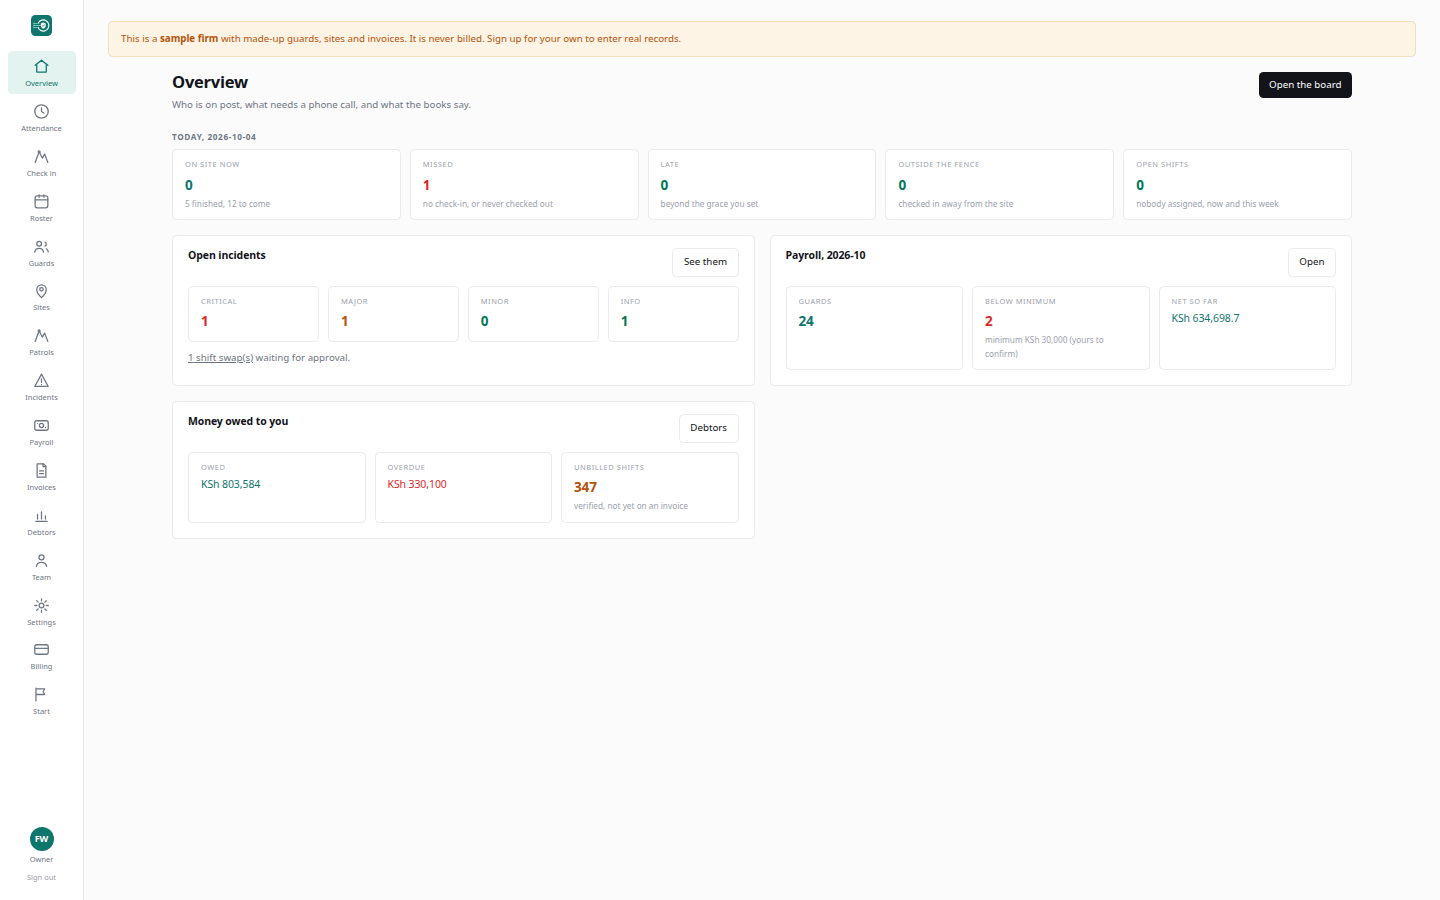
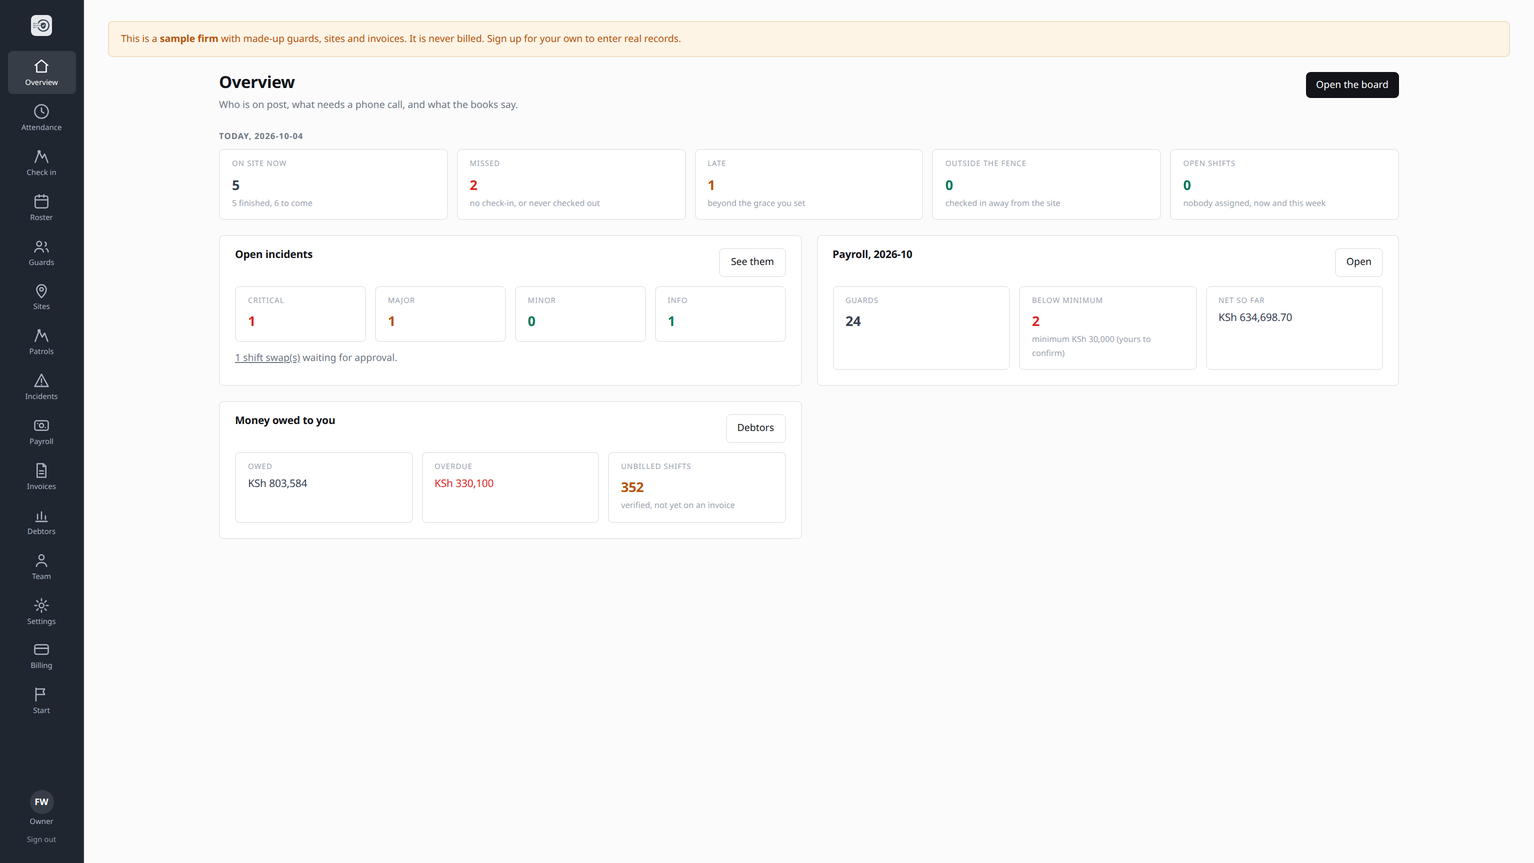
Distinct themes: Hazina bronze, Forecourt cobalt, Church CMS plum, Sojaa graphite with dark rail; brand marks follow accents; Sojaa screenshots refreshed

diff --git a/projects/sojaa/apps/console/src/components/rail.tsx b/projects/sojaa/apps/console/src/components/rail.tsx
@@ -28,9 +28,9 @@ export function Rail({ items, displayName, role }: RailProps) {
     .join("");
 
   return (
-    <aside className="sticky top-0 hidden h-screen w-[84px] shrink-0 flex-col border-r border-[var(--color-line)] bg-[var(--color-rail)] md:flex">
+    <aside className="sticky top-0 hidden h-screen w-[84px] shrink-0 flex-col border-r border-[var(--color-rail-line)] bg-[var(--color-rail)] md:flex">
       <div className="flex justify-center py-5">
-        <Image src="/mark.svg" alt="Sojaa" width={256} height={256} className="h-7 w-7" priority />
+        <Image src="/mark-rail.svg" alt="Sojaa" width={256} height={256} className="h-7 w-7" priority />
       </div>
 
       <nav className="flex flex-1 flex-col gap-0.5 overflow-y-auto px-2.5">
@@ -43,8 +43,8 @@ export function Rail({ items, displayName, role }: RailProps) {
               aria-current={active ? "page" : undefined}
               className={`flex flex-col items-center gap-1 rounded-lg px-1 py-2 text-[0.625rem] font-medium transition-colors ${
                 active
-                  ? "bg-[var(--color-accent-soft)] text-[var(--color-accent)]"
-                  : "text-[var(--color-muted)] hover:bg-[var(--color-raised)] hover:text-[var(--color-ink)]"
+                  ? "bg-[var(--color-rail-active)] text-white"
+                  : "text-[var(--color-rail-ink)] hover:bg-[var(--color-rail-active)] hover:text-white"
               }`}
             >
               <Icon name={item.icon} className="h-[19px] w-[19px]" />
@@ -57,14 +57,14 @@ export function Rail({ items, displayName, role }: RailProps) {
       <form action={signOut} className="flex flex-col items-center gap-1 px-2 pb-5 pt-4">
         <span
           title={displayName}
-          className="flex h-8 w-8 items-center justify-center rounded-full bg-[var(--color-accent)] text-[0.75rem] font-semibold text-white"
+          className="flex h-8 w-8 items-center justify-center rounded-full bg-[var(--color-rail-active)] text-[0.75rem] font-semibold text-white"
         >
           {initials}
         </span>
-        <span className="text-[0.625rem] font-medium capitalize text-[var(--color-muted)]">{role}</span>
+        <span className="text-[0.625rem] font-medium capitalize text-[var(--color-rail-ink)]">{role}</span>
         <button
           type="submit"
-          className="mt-1 rounded-md px-1.5 py-0.5 text-[0.625rem] font-medium text-[var(--color-faint)] transition-colors hover:bg-[var(--color-raised)] hover:text-[var(--color-ink)]"
+          className="mt-1 rounded-md px-1.5 py-0.5 text-[0.625rem] font-medium text-[var(--color-rail-faint)] transition-colors hover:bg-[var(--color-rail-active)] hover:text-white"
         >
           Sign out
         </button>

diff --git a/projects/cms/cms_frontend/src/styles/theme.css b/projects/cms/cms_frontend/src/styles/theme.css
@@ -6,23 +6,23 @@
  */
 :root {
   color-scheme: dark;
-  --c-bg: #0e0d0c;
-  --c-surface: #181614;
-  --c-raised: #211e1b;
-  --c-input: #141210;
-  --c-fill: #26221f;
-  --c-fill-strong: #3a352f;
-  --c-border: #2d2925;
-  --c-border-strong: #433d36;
-  --c-text: #f6f2ed;
-  --c-text-2: #d6cfc6;
-  --c-muted: #aaa297;
-  /* Brand accent: orange. Re-brand by changing these (and the light ones below). */
-  --c-accent: #ee8444;
-  --c-accent-rgb: 238, 132, 68;
-  --c-accent-hover: #f59a60;
-  --c-accent-deep: #f7b07f;
-  --c-on-accent: #1a0d04;
+  --c-bg: #0e0c10;
+  --c-surface: #17141a;
+  --c-raised: #201c24;
+  --c-input: #131016;
+  --c-fill: #25212a;
+  --c-fill-strong: #39333f;
+  --c-border: #2c2731;
+  --c-border-strong: #413a48;
+  --c-text: #f5f1f6;
+  --c-text-2: #d5ced8;
+  --c-muted: #a79eac;
+  /* Brand accent: plum. Re-brand by changing these (and the light ones below). */
+  --c-accent: #d27fe0;
+  --c-accent-rgb: 210, 127, 224;
+  --c-accent-hover: #dc97e8;
+  --c-accent-deep: #e8b4f0;
+  --c-on-accent: #2a0a30;
   --c-accent-soft: rgba(var(--c-accent-rgb), 0.14);
   --c-ok: #4ade80;
   --c-ok-rgb: 74, 222, 128;
@@ -34,7 +34,7 @@
   --c-info-rgb: 94, 184, 255;
   --c-ok-bg: #1f3a1f;
   --c-bad-bg: #3f1e1e;
-  --c-scrollbar: #433d36;
+  --c-scrollbar: #413a48;
   --c-scrim: rgba(0, 0, 0, 0.6);
 }
 
@@ -45,16 +45,16 @@
   --c-raised: #ffffff;
   --c-input: #ffffff;
   --c-fill: #ffffff;
-  --c-fill-strong: #e4ddd2;
-  --c-border: #e9e3da;
-  --c-border-strong: #d4ccc0;
+  --c-fill-strong: #e5dfe9;
+  --c-border: #eae5ee;
+  --c-border-strong: #d5cddb;
   --c-text: #1c1917;
   --c-text-2: #44403c;
-  --c-muted: #5d5851;
-  --c-accent: #c2501a;
-  --c-accent-rgb: 194, 80, 26;
-  --c-accent-hover: #a54314;
-  --c-accent-deep: #8a3510;
+  --c-muted: #5b5560;
+  --c-accent: #a21caf;
+  --c-accent-rgb: 162, 28, 175;
+  --c-accent-hover: #86168f;
+  --c-accent-deep: #6b1073;
   --c-on-accent: #ffffff;
   --c-accent-soft: rgba(var(--c-accent-rgb), 0.09);
   --c-ok: #15803d;
@@ -67,6 +67,6 @@
   --c-info-rgb: 29, 111, 184;
   --c-ok-bg: #dcfce7;
   --c-bad-bg: #fee2e2;
-  --c-scrollbar: #d4ccc0;
+  --c-scrollbar: #d5cddb;
   --c-scrim: rgba(28, 25, 23, 0.45);
 }

diff --git a/projects/cms/cms_frontend/src/ui/ui.css b/projects/cms/cms_frontend/src/ui/ui.css
@@ -176,12 +176,9 @@
   display: flex; align-items: center; justify-content: center;
   background: var(--ui-accent-soft); color: var(--ui-accent);
 }
-.ui-tile.tone-ok .ui-tile-icon svg { width: 15px; height: 15px; }
-.ui-tile-icon { background: rgba(var(--c-ok-rgb), 0.12); color: var(--ui-ok); }
-.ui-tile.tone-bad .ui-tile-icon svg { width: 15px; height: 15px; }
-.ui-tile-icon { background: rgba(var(--c-bad-rgb), 0.12); color: var(--ui-bad); }
-.ui-tile.tone-warn .ui-tile-icon svg { width: 15px; height: 15px; }
-.ui-tile-icon { background: rgba(var(--c-warn-rgb), 0.14); color: var(--ui-warn); }
+.ui-tile.tone-ok .ui-tile-icon { background: rgba(var(--c-ok-rgb), 0.12); color: var(--ui-ok); }
+.ui-tile.tone-bad .ui-tile-icon { background: rgba(var(--c-bad-rgb), 0.12); color: var(--ui-bad); }
+.ui-tile.tone-warn .ui-tile-icon { background: rgba(var(--c-warn-rgb), 0.14); color: var(--ui-warn); }
 .ui-delta-up { color: var(--ui-ok); font-weight: 700; }
 .ui-delta-down { color: var(--ui-bad); font-weight: 700; }
 

diff --git a/projects/hazina/apps/console/src/app/globals.css b/projects/hazina/apps/console/src/app/globals.css
@@ -7,16 +7,16 @@
   --radius-xl: 0.375rem;
   --radius-2xl: 0.375rem;
   --radius-3xl: 0.375rem;
-  --color-canvas: #fbfbfc;
+  --color-canvas: #fbf9f6;
   --color-surface: #ffffff;
-  --color-raised: #f6f7f9;
+  --color-raised: #f6f3ee;
   --color-rail: #ffffff;
-  --color-ink: #12141a;
-  --color-muted: #6e7683;
-  --color-faint: #9aa1ad;
-  --color-line: #e9eaee;
-  --color-accent: #1d4ed8;
-  --color-accent-soft: #e8eefc;
+  --color-ink: #1b1813;
+  --color-muted: #716a5f;
+  --color-faint: #a09a8f;
+  --color-line: #ebe6df;
+  --color-accent: #8a5a1f;
+  --color-accent-soft: #f6eee3;
   --color-violet: #b45309;
   --color-violet-soft: #fdf4e6;
   --color-good: #047857;

diff --git a/projects/sojaa/apps/console/src/app/globals.css b/projects/sojaa/apps/console/src/app/globals.css
@@ -10,13 +10,17 @@
   --color-canvas: #fbfbfc;
   --color-surface: #ffffff;
   --color-raised: #f6f7f9;
-  --color-rail: #ffffff;
+  --color-rail: #1f2630;
+  --color-rail-line: #2d3644;
+  --color-rail-ink: #aab4c2;
+  --color-rail-faint: #8a95a5;
+  --color-rail-active: rgba(255, 255, 255, 0.11);
   --color-ink: #12141a;
   --color-muted: #6e7683;
   --color-faint: #9aa1ad;
   --color-line: #e9eaee;
-  --color-accent: #0f766e;
-  --color-accent-soft: #e3f3f0;
+  --color-accent: #374151;
+  --color-accent-soft: #eceef1;
   --color-violet: #b45309;
   --color-violet-soft: #fdf4e6;
   --color-good: #047857;

diff --git a/projects/carwash/apps/console/src/app/console/flags/page.tsx b/projects/carwash/apps/console/src/app/console/flags/page.tsx
@@ -113,7 +113,7 @@ export default async function FlagsPage({
               ) : null}
             </div>
 
-            {Object.keys(flag.evidence ?? {}).length > 0 ? (
+            {Object.entries(flag.evidence ?? {}).filter(([, value]) => typeof value !== "object").length > 0 ? (
               <dl className="mt-3 grid gap-x-6 gap-y-2 border-t border-[var(--color-line)] pt-3 sm:grid-cols-3">
                 {Object.entries(flag.evidence)
                   .filter(([, value]) => typeof value !== "object")

diff --git a/projects/carwash/apps/console/src/app/globals.css b/projects/carwash/apps/console/src/app/globals.css
@@ -15,8 +15,8 @@
   --color-muted: #6e7683;
   --color-faint: #9aa1ad;
   --color-line: #e9eaee;
-  --color-accent: #0369a1;
-  --color-accent-soft: #e6f1f8;
+  --color-accent: #1d4ed8;
+  --color-accent-soft: #e8eefc;
   --color-violet: #b45309;
   --color-violet-soft: #fdf4e6;
   --color-good: #047857;

diff --git a/projects/cms/cms_frontend/DESIGN.md b/projects/cms/cms_frontend/DESIGN.md
@@ -1,7 +1,7 @@
 # Church CMS console: design language
 
 This replaces the earlier "dense, 6px radius, 12px root, no shadows" rules for this app. The CMS
-keeps its own orange identity; everything else follows SmartRE (`java.0/smartRE-front`) and the
+keeps its own plum identity; everything else follows SmartRE (`java.0/smartRE-front`) and the
 SmartSeason worked example (`java.0/smartSeason/apps/web/DESIGN.md`).
 
 ## What was taken from SmartRE
@@ -21,12 +21,12 @@ SmartSeason worked example (`java.0/smartSeason/apps/web/DESIGN.md`).
 
 | Token | Light | Dark | Use |
 |---|---|---|---|
-| `--c-bg` | #ffffff | #0e0d0c | canvas; light mode is pure white everywhere |
-| `--c-surface` | #ffffff | #181614 | cards, sidebar, inputs |
-| `--c-raised` | #ffffff | #211e1b | table header, hover, chips |
-| `--c-text` / `-2` / `--c-muted` | #1c1917 / #44403c / #5d5851 | #f6f2ed / #d6cfc6 / #aaa297 | text; muted passes 4.5:1 |
-| `--c-border` / `-strong` | #e9e3da / #d4ccc0 | #2d2925 / #433d36 | hairlines, inputs |
-| `--c-accent` (+hover, soft) | #c2501a | #ee8444 | the orange |
+| `--c-bg` | #ffffff | #0e0c10 | canvas; light mode is pure white everywhere |
+| `--c-surface` | #ffffff | #17141a | cards, sidebar, inputs |
+| `--c-raised` | #ffffff | #201c24 | table header, hover, chips |
+| `--c-text` / `-2` / `--c-muted` | #1c1917 / #44403c / #5b5560 | #f5f1f6 / #d5ced8 / #a79eac | text; muted passes 4.5:1 |
+| `--c-border` / `-strong` | #eae5ee / #d5cddb | #2c2731 / #413a48 | hairlines, inputs |
+| `--c-accent` (+hover, soft) | #a21caf | #d27fe0 | the plum |
 | ok / warn / bad / info | green, amber, red, blue | brighter variants | badges, deltas; each has an `-rgb` token for tints |
 
 Themes: `data-theme="light|dark"` on `<html>`, restored before first paint by `/theme-init.js`,
